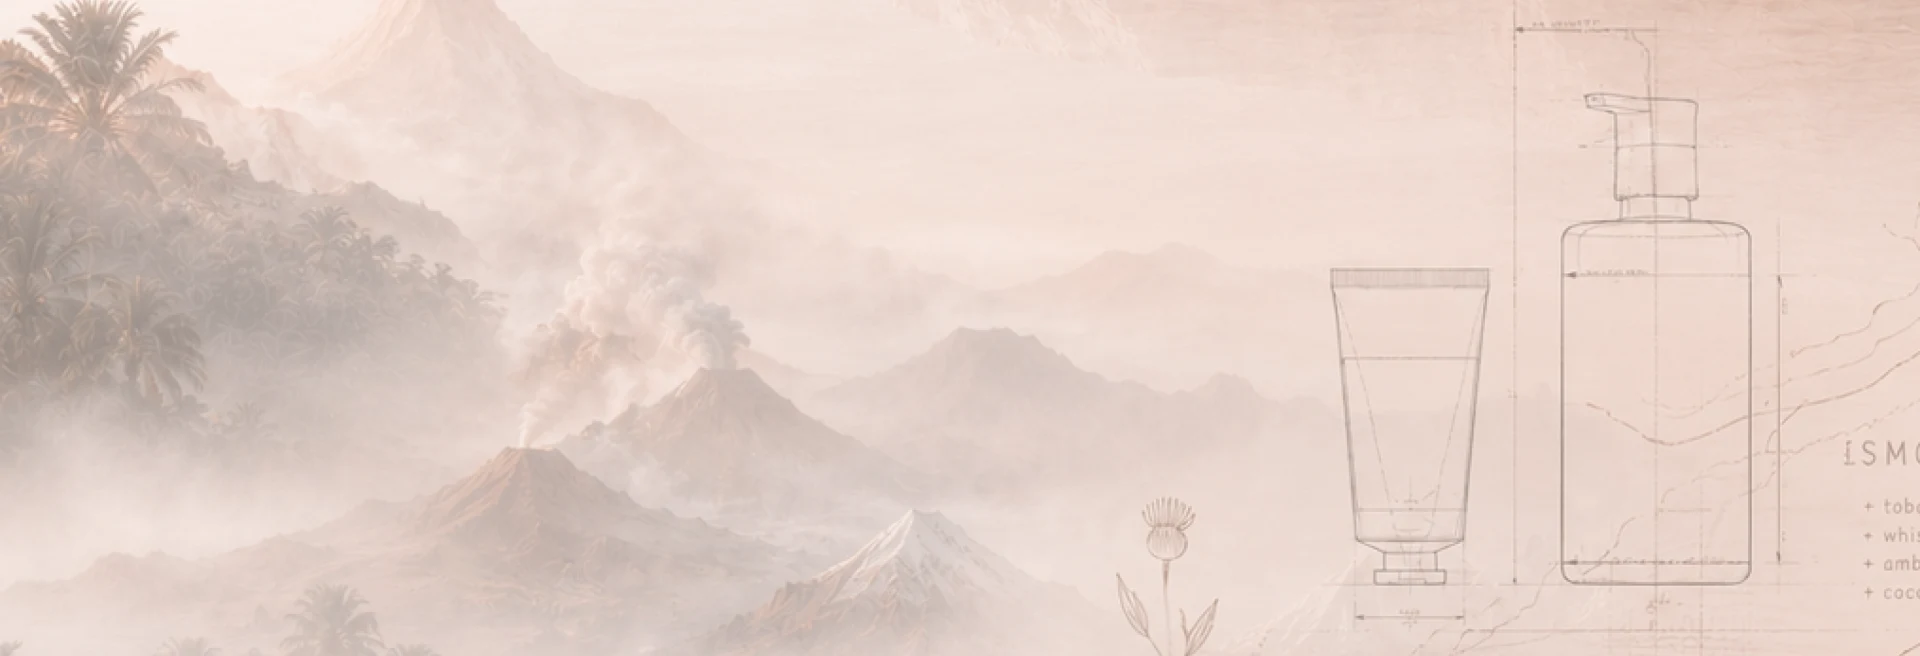
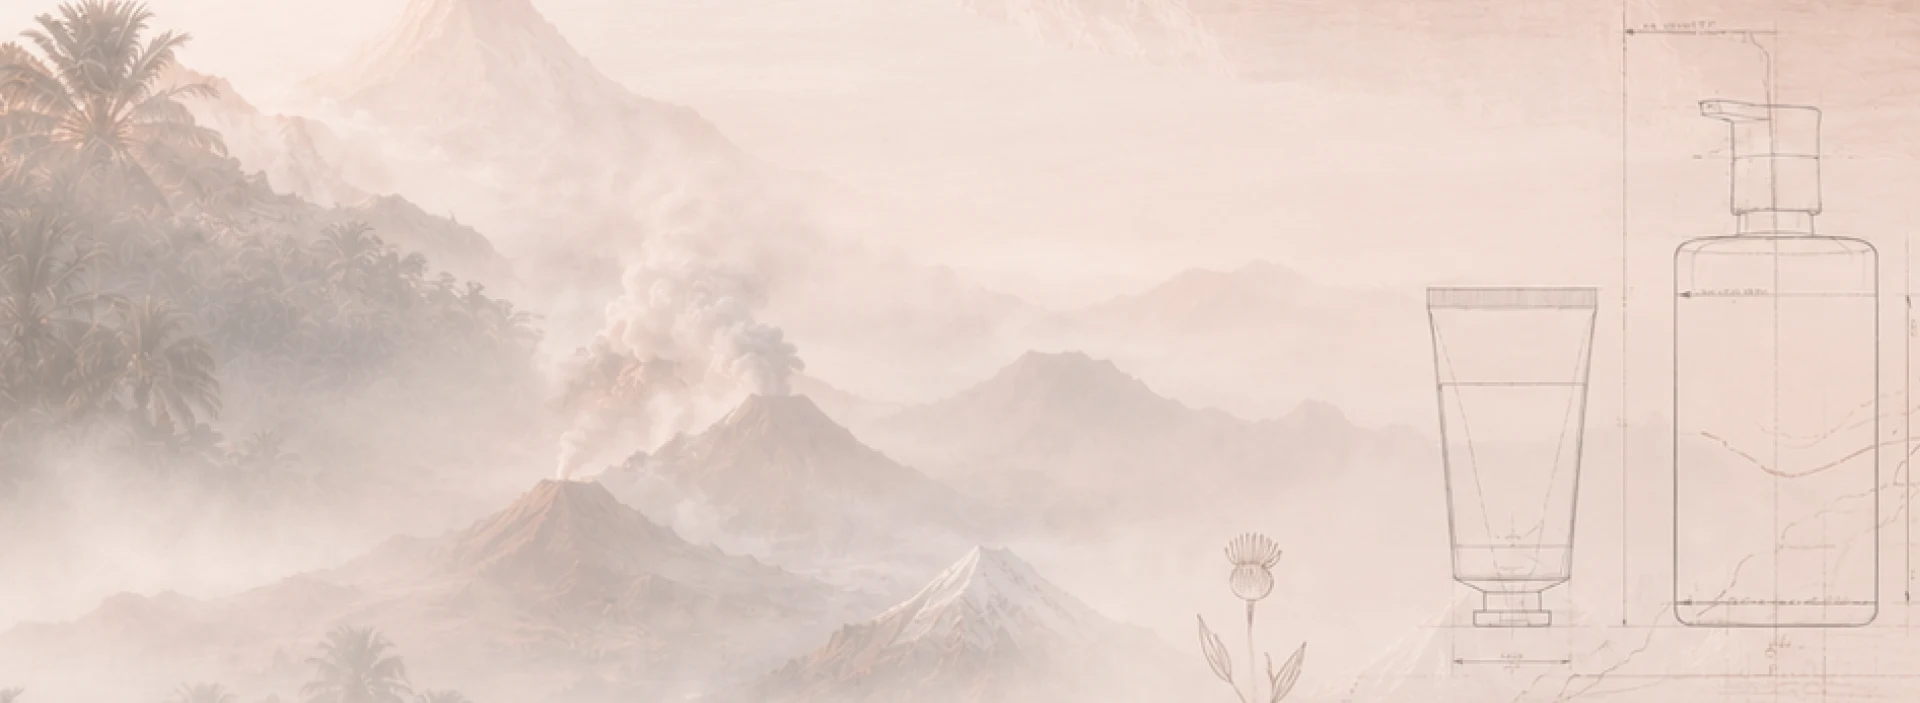
Интро: ступенчатые отступы текста по макету, эскизы вписаны без обреза; шаг карусели — одна карточка
- Карусель: стрелка прокручивает на одну карточку (≈440px), а не на целую «страницу»
- Интро: абзацы со ступенчатым отступом точь-в-точь по макету (n617 left 79, n619 248, n618 511); ширина n618 под перенос «…вернуть вам»
- Фон интро: пересобран из левых 1920px узла 825:20 — флакон-эскиз виден целиком, чертёжная колонка «ISMOKE/+notes» уходит за правый край (не обрезается в кадре)

diff --git a/styles.css b/styles.css
@@ -136,11 +136,12 @@ a.t, a.btn { color: #313131; text-decoration: none; }
 .nav-link { font-size: 28.8px; line-height: 1; }
 
 /* intro texts */
-/* интро-тексты перемещены ПОД карусель (карусель поднята под hero) */
-.n617 { left: 49px; top: 1880px; width: 880px;    font-size: 38.4px; line-height: 1.2; letter-spacing: 0.04em; color: #000; }
-.n618 { left: 49px; top: 2031px; transform: translateY(1px); width: 886.4px;  font-size: 38.4px; line-height: 1.2; letter-spacing: 0.04em; color: #000; }
+/* интро-тексты перемещены ПОД карусель (карусель поднята под hero);
+   отступы ступенькой — точь-в-точь по макету (Image #5): 79 / 511 / 248 */
+.n617 { left: 79px;  top: 1880px; width: 880px;    font-size: 38.4px; line-height: 1.2; letter-spacing: 0.04em; color: #000; }
+.n618 { left: 511px; top: 2031px; transform: translateY(1px); width: 970px;   font-size: 38.4px; line-height: 1.2; letter-spacing: 0.04em; color: #000; }
 .n618 .brand { color: #B23D0F; }
-.n619 { left: 49px; top: 2226px; transform: translateY(1px); width: 1101px;   font-size: 38.4px; line-height: 1.2; letter-spacing: 0.04em; color: #000; }
+.n619 { left: 248px; top: 2226px; transform: translateY(1px); width: 1101px;  font-size: 38.4px; line-height: 1.2; letter-spacing: 0.04em; color: #000; }
 
 /* aromas section texts */
 .n620 { left: 150px; top: 6124px; width: 530px;   font-size: 55px; line-height: 1; color: #C35B3F; }
@@ -226,7 +227,7 @@ a.t, a.btn { color: #313131; text-decoration: none; }
 /* декоративный фон интро: туманные пейзажи + лайн-арт эскизы (Figma 825:20),
    за текстами «Мы создали…»/«Каждый аромат…»; растушёван сверху/снизу в крем */
 .intro-bg {
-  left: 0; top: 1950px; width: 1920px; height: 656px; opacity: .92;
+  left: 0; top: 1950px; width: 1920px; height: 703px; opacity: .92;
   -webkit-mask-image: linear-gradient(180deg, transparent 0, #000 16%, #000 78%, transparent 100%);
   mask-image: linear-gradient(180deg, transparent 0, #000 16%, #000 78%, transparent 100%);
 }

diff --git a/app.js b/app.js
@@ -69,8 +69,8 @@
     const vis = () => (document.documentElement.clientWidth > 768 ? document.documentElement.clientWidth / 1920 : 1);
     const step = () => {
       const card = track.querySelector('.sc-card');
-      const w = card ? card.offsetWidth + 36 : track.clientWidth * 0.8;   // design-px (zoom не влияет на layout-метрики)
-      return Math.max(w, Math.floor(track.clientWidth / w) * w);
+      // шаг = одна карточка + gap (раньше прокручивало целую «страницу» видимых карточек)
+      return card ? card.offsetWidth + 36 : track.clientWidth * 0.8;   // design-px (zoom не влияет на layout-метрики)
     };
     const update = () => {
       const max = track.scrollWidth - track.clientWidth;
